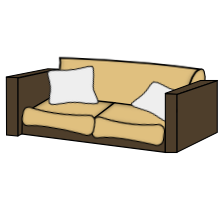
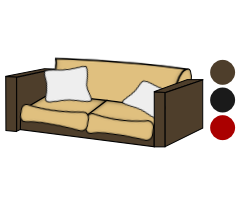
added different sofa colors

Changed region(s): [[0.0, 0.24, 1.0, 0.75]]

diff --git a/src/widgets/RoomWidget.cc b/src/widgets/RoomWidget.cc
@@ -169,9 +169,13 @@ namespace ipn
         }
     }
 
-    void RoomWidget::addFurniture(int idx)
+    void RoomWidget::addFurniture(int idx, int size, int color)
     {
-        QString tempUrl = QString(":/assets/images/furniture/couch_%1.png").arg(QString::number(idx));
+        QString tempUrl = QString(":/assets/images/furniture/couch_%1_%2_%3.png").arg(
+            QString::number(idx),
+            QString::number(size),
+            QString::number(color)
+        );
         QGraphicsPixmapItem *item = m_scene->addPixmap(QPixmap(tempUrl));
         item->setTransformationMode(Qt::SmoothTransformation);
         item->translate(width() / 2, height() / 2);

diff --git a/src/apps/NumberPickerApp.cc b/src/apps/NumberPickerApp.cc
@@ -79,11 +79,11 @@ namespace ipn
 
         switch(i) {
             case 0:
-                return "100 x 240 cm";
+                return "90 x 90 cm";
             case 1:
-                return "200 x 480 cm";
+                return "180 x 90 cm";
             default:
-                return "300 x 720 cm";
+                return "230 x 90 cm";
         }
     }
 

diff --git a/src/widgets/roomwidget.h b/src/widgets/roomwidget.h
@@ -16,7 +16,7 @@ namespace ipn
 
         public:
             explicit RoomWidget(MapApp *parent = 0);
-            void addFurniture(int idx);
+            void addFurniture(int idx, int size = 0, int color = 0);
             void deleteFurniture();
             void unselectFurniture();
             void selectFurniture(QGraphicsItem *item);
